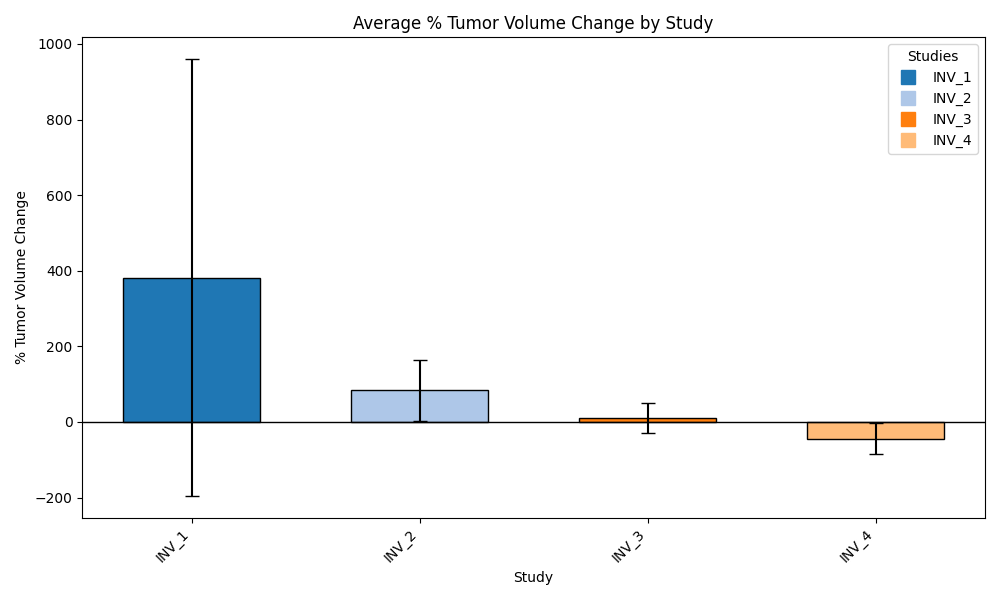
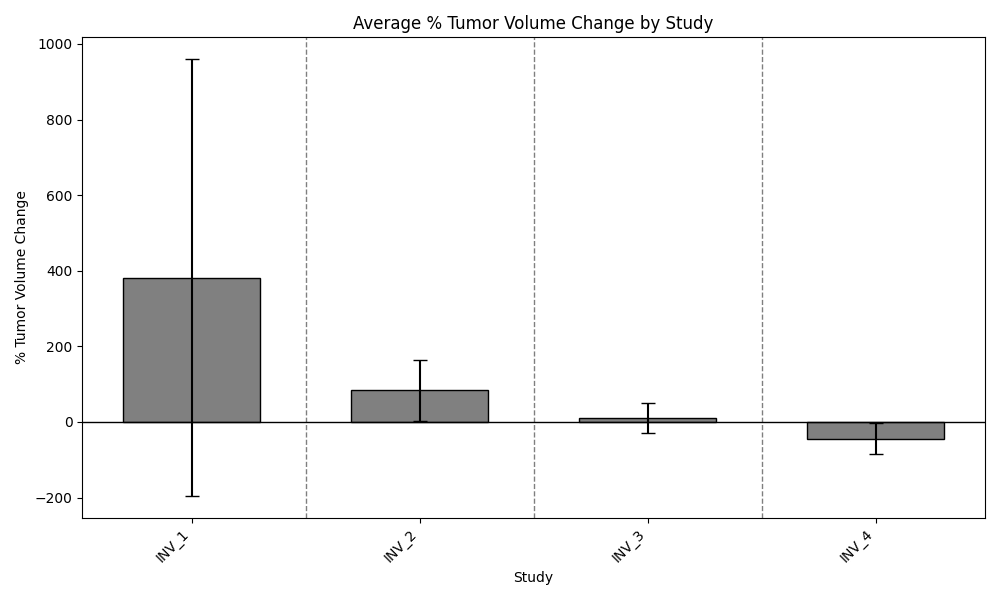
Removed legends where a single color would do. Updated figure. Started t/c ratio plot. Blocked out this function. Added separators in a few graphs. Will make this the last plot.

diff --git a/TumorVolumeClass.py b/TumorVolumeClass.py
@@ -1494,7 +1494,7 @@ class TumorVolumeExperimentClass():
 
     # Visualization
     def plot_average_tumor_volume_change_bar(self, control_arms=("control", "vehicle", "placebo"),
-            error_metric="std", show_legend=True, show_axis_labels=True, compute_day:int|None=None,
+            error_metric="std", show_axis_labels=True, compute_day:int|None=None,
             title="Average % Tumor Volume Change by Study", figsize=(10, 6)):
         """
         Plot the average percent tumor volume change for each study.
@@ -1544,7 +1544,7 @@ class TumorVolumeExperimentClass():
             study_means.append(mean_val)
             study_errors.append(err_val)
             study_labels.append(study)
-            study_colors.append(cmap(idx % 20))
+            study_colors.append('#808080')
 
         # ---------------- Plotting ----------------
         fig, ax = plt.subplots(figsize=figsize)
@@ -1562,6 +1562,11 @@ class TumorVolumeExperimentClass():
 
         ax.axhline(0, color="black", linewidth=1)
 
+        # Add vertical lines between studies
+        for i in range(len(x) - 1):
+            line_x = x[i] + 0.5
+            ax.axvline(x=line_x, color='black', linestyle='--', linewidth=1, alpha=0.5)
+
         # Axis labels
         if show_axis_labels:
             ax.set_ylabel("% Tumor Volume Change")
@@ -1574,28 +1579,95 @@ class TumorVolumeExperimentClass():
         ax.set_xticks(x)
         ax.set_xticklabels(study_labels, rotation=45, ha="right")
 
-        # -------- Legend that describes the colors --------
-        if show_legend:
-            legend_elements = [
-                plt.Line2D(
-                    [0], [0],
-                    marker="s",
-                    markersize=10,
-                    color=color,
-                    linestyle="none",
-                    label=label
-                )
-                for label, color in zip(study_labels, study_colors)
-            ]
+        plt.tight_layout()
+        plt.show()
+    def plot_tumor_control_ratio_bar(self, control_arms=("control", "vehicle", "placebo"), error_metric="std",
+            show_axis_labels=True, compute_day: int | None = None, title="Average % Tumor Volume Change by Study",
+            figsize=(10, 6)):
+        """
+        Plot the average percent tumor volume change for each study.
+        """
 
-            ax.legend(
-                handles=legend_elements,
-                loc="upper right",
-                frameon=True,
-                facecolor="white",
-                framealpha=0.8,
-                title="Studies"
-            )
+        import numpy as np
+        import matplotlib.pyplot as plt
+
+        # Sort studies
+        study_keys = sorted(self.study_keys)
+
+        study_means = []
+        study_errors = []
+        study_labels = []
+        study_colors = []
+
+        cmap = plt.get_cmap("tab20")
+
+        # Build bar data
+        for idx, study in enumerate(study_keys):
+
+            study_obj = self.experiment_study_dict[study]
+
+            arms = study_obj.unique_arms
+            arms_to_plot = [arm for arm in arms if arm.lower() not in control_arms]
+            trtarms = [arm for arm in arms if arm.lower() not in control_arms]
+            ctrl_arms = [arm for arm in arms if arm.lower() in control_arms]
+
+            all_changes = []
+
+            for arm in arms_to_plot:
+                arm_id_list = study_obj.study_arms_dict[arm]
+
+                for ts_id in arm_id_list:
+                    tv_data_obj = study_obj.study_tv_time_dict[ts_id]
+                    tv_pct_change = tv_data_obj.compute_percent_change_tumor_volume(compute_day)
+                    final_change = tv_pct_change
+                    all_changes.append(final_change)
+
+            if len(all_changes) == 0:
+                continue
+
+            mean_val = np.nanmean(all_changes)
+            if error_metric == "sem":
+                err_val = np.nanstd(all_changes) / np.sqrt(len(all_changes))
+            else:
+                err_val = np.nanstd(all_changes)
+
+            study_means.append(mean_val)
+            study_errors.append(err_val)
+            study_labels.append(study)
+            study_colors.append('#808080')
+
+        # ---------------- Plotting ----------------
+        fig, ax = plt.subplots(figsize=figsize)
+        x = np.arange(len(study_means))
+
+        bars = ax.bar(
+            x,
+            study_means,
+            yerr=study_errors,
+            color=study_colors,
+            capsize=5,
+            width=0.6,
+            edgecolor="black",
+        )
+
+        ax.axhline(0, color="black", linewidth=1)
+
+        # Add vertical lines between studies
+        for i in range(len(x) - 1):
+            line_x = x[i] + 0.5
+            ax.axvline(x=line_x, color='black', linestyle='--', linewidth=1, alpha=0.5)
+
+        # Axis labels
+        if show_axis_labels:
+            ax.set_ylabel("% Tumor Volume Change")
+            ax.set_xlabel("Study")
+
+        if title:
+            ax.set_title(title)
+
+        # Ticks
+        ax.set_xticks(x)
+        ax.set_xticklabels(study_labels, rotation=45, ha="right")
 
         plt.tight_layout()
         plt.show()
@@ -2402,7 +2474,7 @@ def main():
                 show_legend=True, show_axis_labels=False)
 
     # Example  12: Average Tumor Volume Change Experiment
-    if True:
+    if established_test:
         experiments = tvd_obj.unique_experiments
         experiments.sort()
         for experiment in experiments:
@@ -2442,6 +2514,15 @@ def main():
         for experiment in experiments:
             tvd_experiment_obj = tvd_obj.tumor_vol_experiment_dict[experiment]
             tvd_experiment_obj.plot_log2fc_points(compute_day=compute_day, title=title)
+
+    # Example  16: Tumor volume ratio across experiment
+    if True:
+        experiments = tvd_obj.unique_experiments
+        experiments.sort()
+        for experiment in experiments:
+            tvd_experiment_obj = tvd_obj.tumor_vol_experiment_dict[experiment]
+            tvd_experiment_obj.plot_tumor_control_ratio_bar()
+            print(tvd_experiment_obj)
 
 if __name__ == '__main__':
     main()
